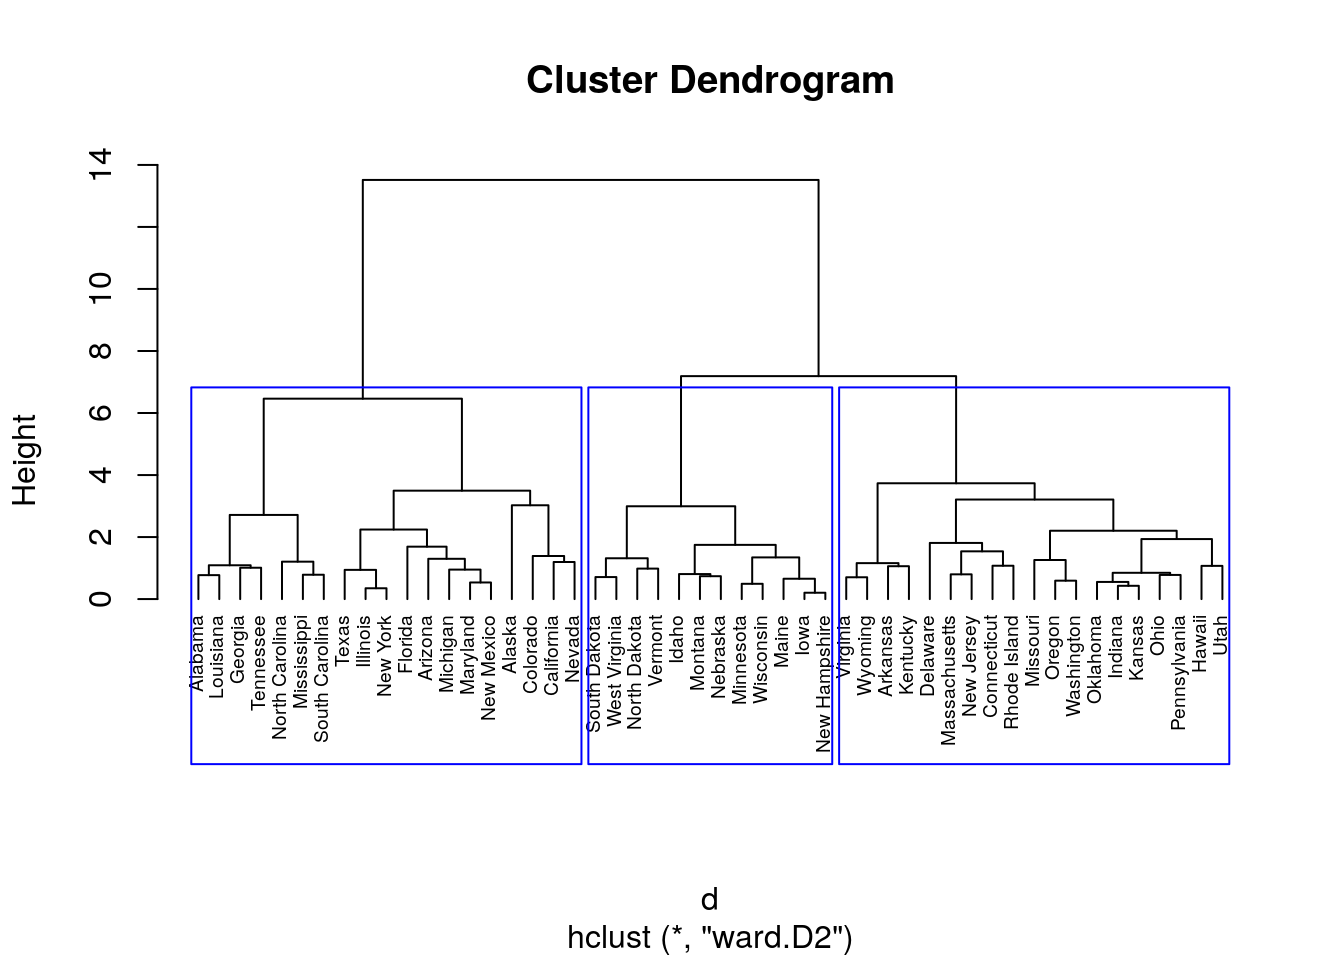
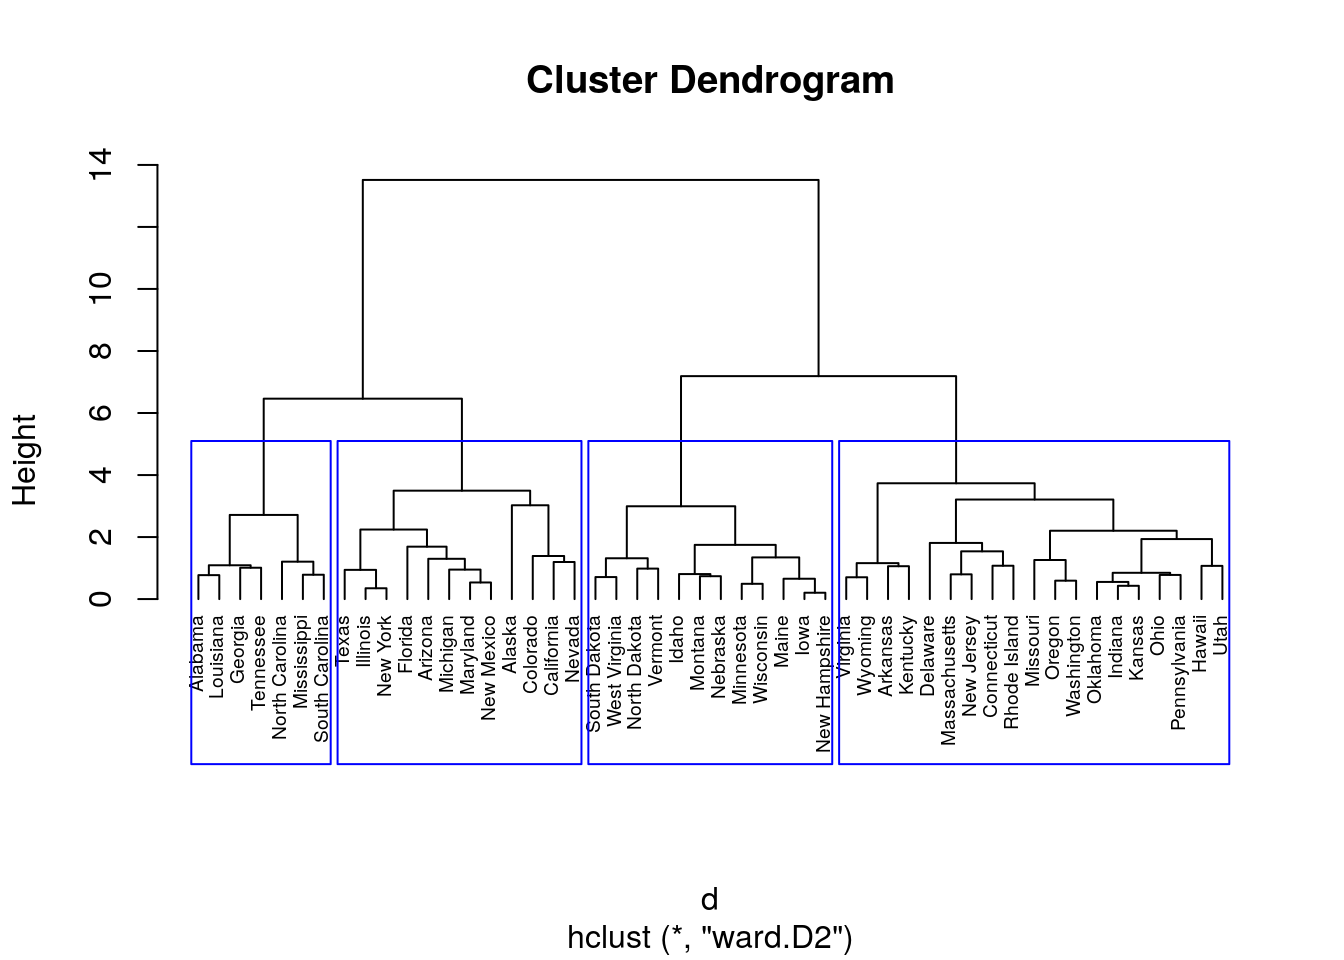
upload_web

diff --git a/public/post/statistics/hierarchical_cluster/hierarchical_cluser/index.html b/public/post/statistics/hierarchical_cluster/hierarchical_cluser/index.html
@@ -684,7 +684,7 @@ purrr::map_dbl(m, ac)</code></pre>
 </div>
 <div id="hierarchical-cluster-analysis-1" class="section level2">
 <h2>Hierarchical cluster analysis</h2>
-<p>Let’s first split data into groups using <code>clust::hclust</code> function.</p>
+<p>Let’s first split data into 4 groups using <code>clust::hclust</code> function.</p>
 <pre class="r"><code># calculate distances
 d &lt;- dist(df, method=&#39;euclidean&#39;)
 
@@ -695,8 +695,8 @@ hc1 &lt;- hclust(d, method=&#39;ward.D2&#39;)
 # Plot the obtained dendrogram
 plot(hc1, hang = -1, cex = 0.6)
 
-# show 3 clusers
-rect.hclust(hc1, k=3, border=&quot;blue&quot;)</code></pre>
+# show 4 clusers
+rect.hclust(hc1, k=4, border=&quot;blue&quot;)</code></pre>
 <p><img src="/post/statistics/hierarchical_cluster/hierarchical_cluser_files/figure-html/unnamed-chunk-6-1.png" width="672" /></p>
 <pre class="r"><code># group data by clusters
 groups &lt;- cutree(hc1, k=3)
@@ -710,7 +710,7 @@ names(groups[groups == 1])</code></pre>
 names(hc1)</code></pre>
 <pre><code>## [1] &quot;merge&quot;       &quot;height&quot;      &quot;order&quot;       &quot;labels&quot;      &quot;method&quot;     
 ## [6] &quot;call&quot;        &quot;dist.method&quot;</code></pre>
-<p>Now we can split data into groups using <code>cluster::agnes</code> function.</p>
+<p>Now we can split data into 4 groups using <code>cluster::agnes</code> function.</p>
 <pre class="r"><code># using &#39;agnes&#39; for hierarhical clustering
 hc3 &lt;- cluster::agnes(df, method=&#39;ward&#39;)
 # plot slaster

diff --git a/content/post/statistics/hierarchical_cluster/hierarchical_cluser.html b/content/post/statistics/hierarchical_cluster/hierarchical_cluser.html
@@ -79,7 +79,7 @@ purrr::map_dbl(m, ac)</code></pre>
 </div>
 <div id="hierarchical-cluster-analysis-1" class="section level2">
 <h2>Hierarchical cluster analysis</h2>
-<p>Let’s first split data into groups using <code>clust::hclust</code> function.</p>
+<p>Let’s first split data into 4 groups using <code>clust::hclust</code> function.</p>
 <pre class="r"><code># calculate distances
 d &lt;- dist(df, method=&#39;euclidean&#39;)
 
@@ -90,8 +90,8 @@ hc1 &lt;- hclust(d, method=&#39;ward.D2&#39;)
 # Plot the obtained dendrogram
 plot(hc1, hang = -1, cex = 0.6)
 
-# show 3 clusers
-rect.hclust(hc1, k=3, border=&quot;blue&quot;)</code></pre>
+# show 4 clusers
+rect.hclust(hc1, k=4, border=&quot;blue&quot;)</code></pre>
 <p><img src="/post/statistics/hierarchical_cluster/hierarchical_cluser_files/figure-html/unnamed-chunk-6-1.png" width="672" /></p>
 <pre class="r"><code># group data by clusters
 groups &lt;- cutree(hc1, k=3)
@@ -105,7 +105,7 @@ names(groups[groups == 1])</code></pre>
 names(hc1)</code></pre>
 <pre><code>## [1] &quot;merge&quot;       &quot;height&quot;      &quot;order&quot;       &quot;labels&quot;      &quot;method&quot;     
 ## [6] &quot;call&quot;        &quot;dist.method&quot;</code></pre>
-<p>Now we can split data into groups using <code>cluster::agnes</code> function.</p>
+<p>Now we can split data into 4 groups using <code>cluster::agnes</code> function.</p>
 <pre class="r"><code># using &#39;agnes&#39; for hierarhical clustering
 hc3 &lt;- cluster::agnes(df, method=&#39;ward&#39;)
 # plot slaster
